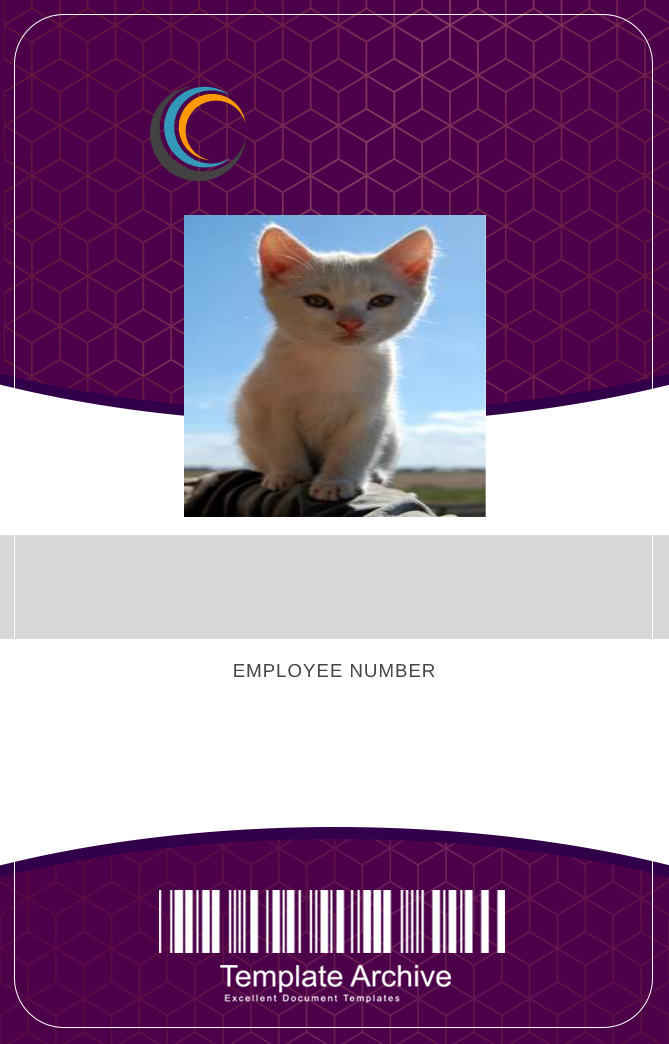
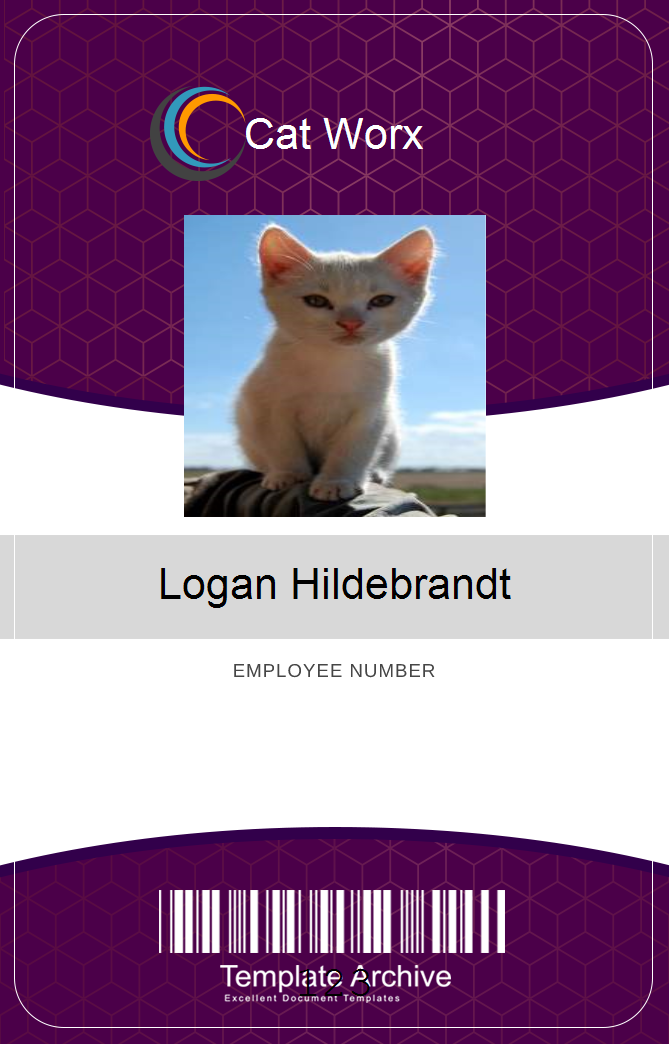
added logic for adding the employee name to the new badge

diff --git a/Util.cs b/Util.cs
@@ -70,6 +70,15 @@ namespace CatWorx.BadgeMaker
                 Image newImage = Image.FromFile("badge.png");
                 newImage.Save("data/employeeBadge.png");
 
+                //Graphics objects
+                StringFormat format = new StringFormat();
+                format.Alignment = StringAlignment.Center;
+                int FONT_SIZE = 32;
+                Font font = new Font("Arial", FONT_SIZE);
+                Font monoFont = new Font("Courier New", FONT_SIZE);
+
+                SolidBrush brush = new SolidBrush(Color.Black);
+
                 using(WebClient client = new WebClient())
                     {
                         for (int i = 0; i < employees.Count; i++)
@@ -80,6 +89,45 @@ namespace CatWorx.BadgeMaker
                                 Graphics graphic = Graphics.FromImage(badge);
                                 graphic.DrawImage(background, new Rectangle(0, 0, BADGE_WIDTH, BADGE_HEIGHT));
                                 graphic.DrawImage(photo, new Rectangle(PHOTO_START_X, PHOTO_START_Y, PHOTO_WIDTH, PHOTO_HEIGHT));
+                                //Company name
+                                graphic.DrawString(
+                                    employees[i].GetCompanyName(),
+                                    font,
+                                    new SolidBrush(Color.White),
+                                    new Rectangle(
+                                        COMPANY_NAME_START_X,
+                                        COMPANY_NAME_START_Y,
+                                        BADGE_WIDTH,
+                                        COMPANY_NAME_WIDTH
+                                    ),
+                                    format
+                                );
+                                //Employee name
+                                graphic.DrawString(
+                                    employees[i].GetName(),
+                                    font,
+                                    brush,
+                                    new Rectangle(
+                                        EMPLOYEE_NAME_START_X,
+                                        EMPLOYEE_NAME_START_Y,
+                                        BADGE_WIDTH,
+                                        EMPLOYEE_NAME_HEIGHT
+                                    ),
+                                    format
+                                );
+                                //Employee ID
+                                graphic.DrawString(
+                                    employees[i].GetId().ToString(),
+                                    monoFont,
+                                    brush,
+                                    new Rectangle(
+                                        EMPLOYEE_ID_START_X,
+                                        EMPLOYEE_ID_START_Y,
+                                        EMPLOYEE_ID_WIDTH,
+                                        EMPLOYEE_ID_HEIGHT
+                                    ),
+                                    format
+                                );
                                 badge.Save("data/employeeBadge.png");
                             }
                     }

diff --git a/Employee.cs b/Employee.cs
@@ -23,5 +23,9 @@ namespace CatWorx.BadgeMaker {
         return PhotoUrl;
 
     }
+
+    public string GetCompanyName() {
+      return "Cat Worx";
+    }
   }
 }
